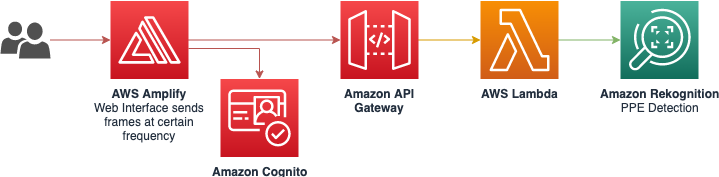
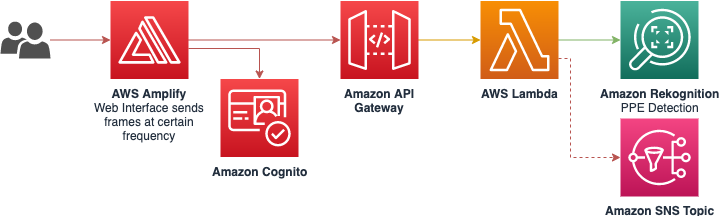
Add support for optionally send events to SNS too

diff --git a/demo/src/functions/detect/index.js b/demo/src/functions/detect/index.js
@@ -53,18 +53,13 @@ exports.processHandler = async (event) => {
           )
           .flat();
 
-        return { id: person.id, results };
-      });
-
-      console.log(people);
+        return { id: person.Id, results };
+      }).filter((person) => person.results.length > 0);
 
       await Promise.all(
         people.map((person) =>
           sns
-            .publish({
-              Message: JSON.stringify(person),
-              TopicArn: TOPIC_ARN,
-            })
+            .publish({ Message: JSON.stringify(person), TopicArn: TOPIC_ARN })
             .promise()
         )
       );

diff --git a/demo/README.md b/demo/README.md
@@ -40,6 +40,7 @@ The demo application is deployed as an [AWS CloudFormation](https://aws.amazon.c
 > - [Amazon S3 Pricing](https://aws.amazon.com/s3/pricing/)
 > - [Amazon Cognito Pricing](https://aws.amazon.com/cognito/pricing/)
 > - [Amazon CloudFront Pricing](https://aws.amazon.com/cloudfront/pricing/)
+> - [Amazon SNS Pricing](https://aws.amazon.com/sns/pricing/)
 
 1. Deploy the latest CloudFormation template by following the link below for your preferred AWS region:
 
